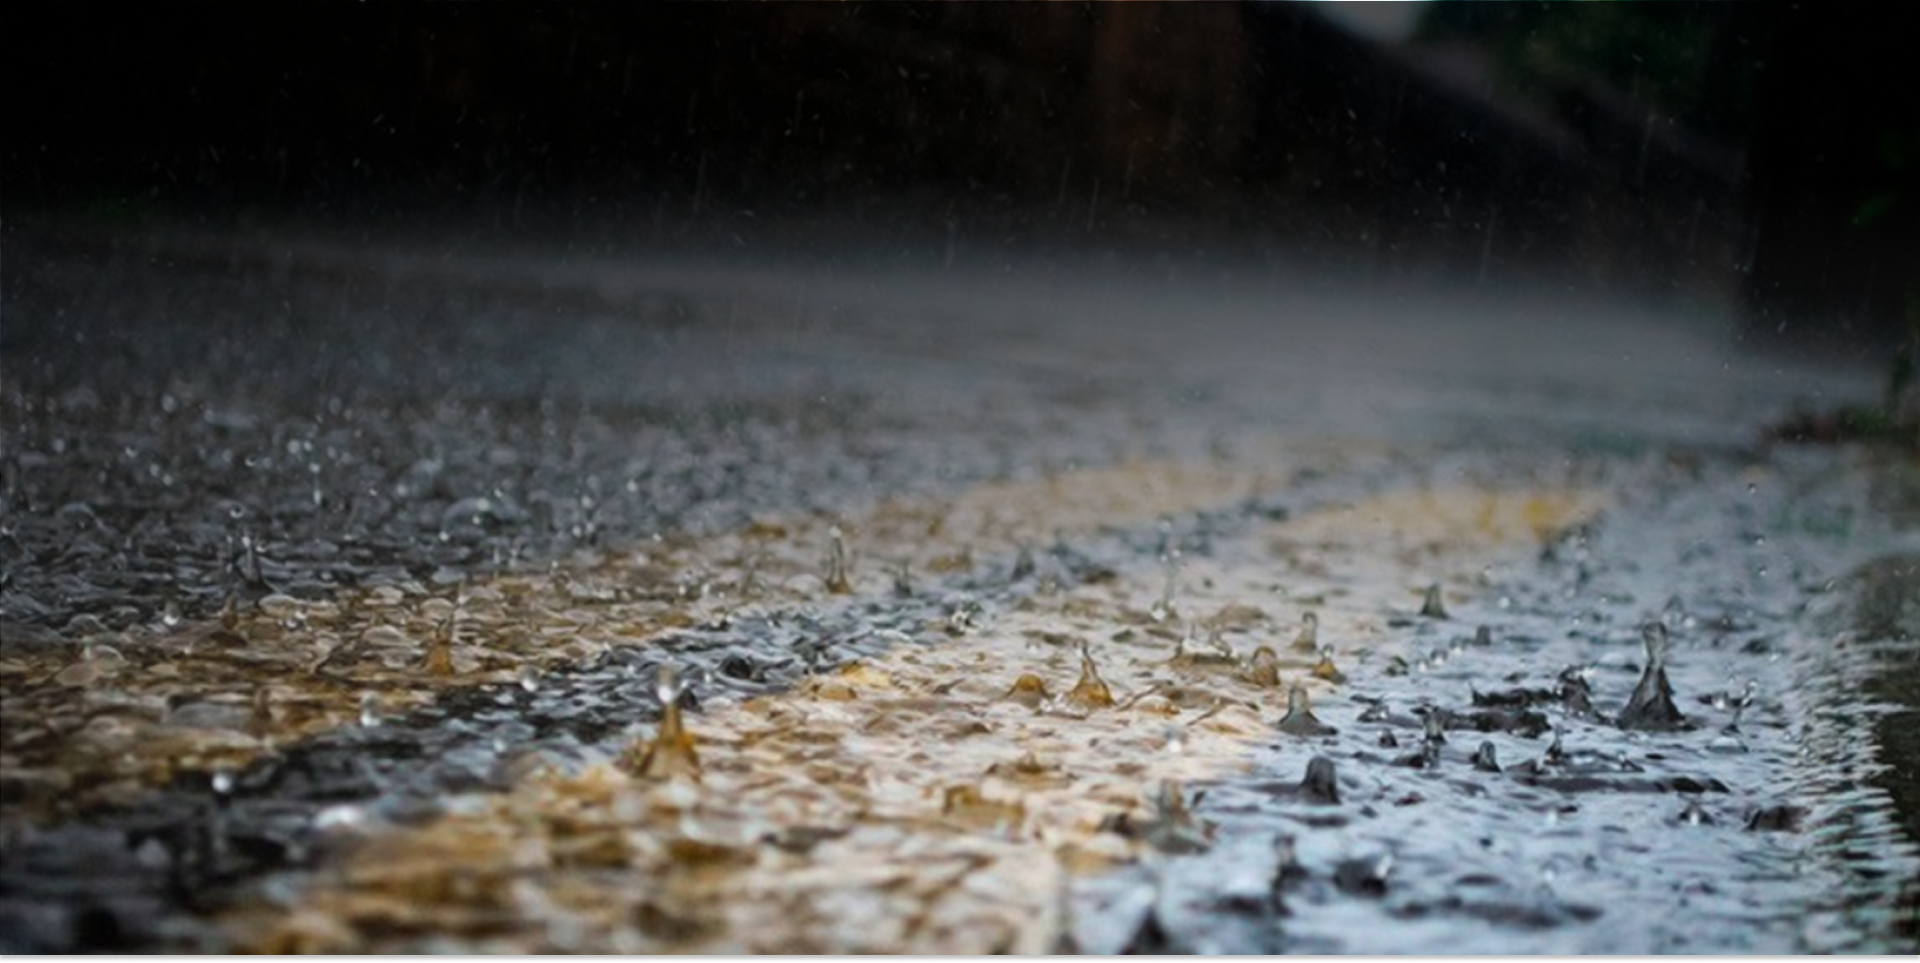
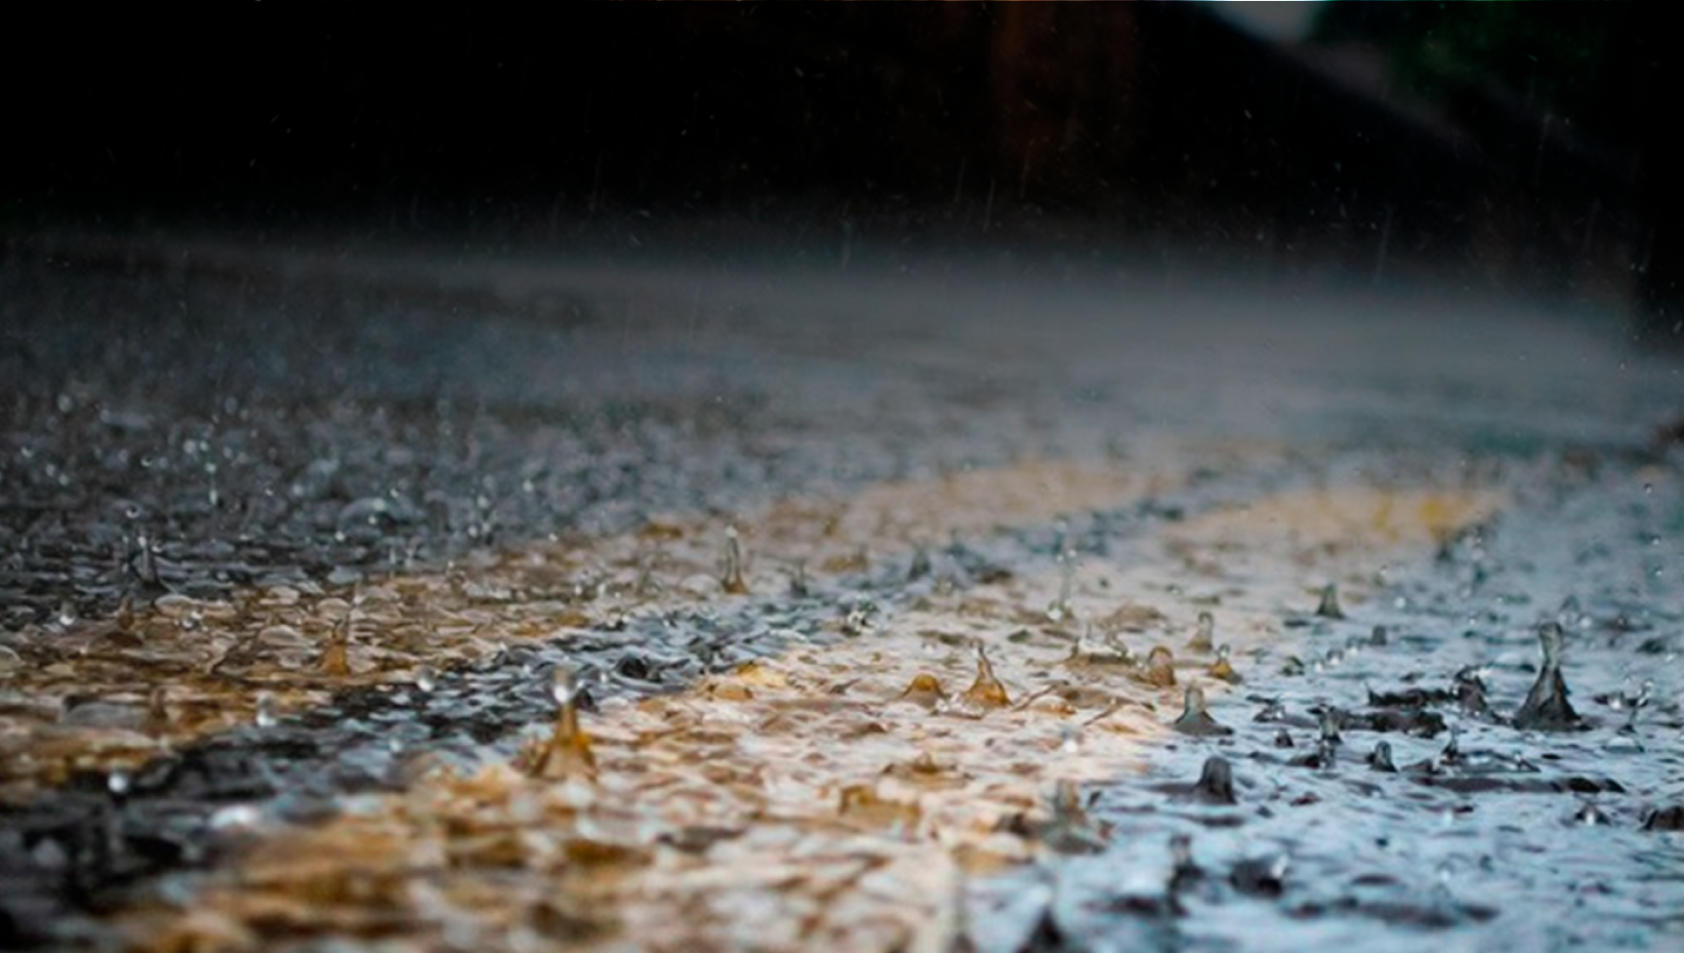
landingPage up

diff --git a/src/components/HomePage/HomePage.jsx b/src/components/HomePage/HomePage.jsx
@@ -6,8 +6,8 @@ export const HomePage = () => {
     return(
         <div id="carouselExampleInterval" className="carousel slide" data-bs-ride="carousel">
             <div className="carousel-inner">
-                <div className="carousel-item active" data-bs-interval="5000">
-                    <img src="/images/mexico-alerta-slider-1.jpg" className="d-block w-100" alt="mexico alerta salvando vidas en colaboracion" />
+                <div className="carousel-item active" data-bs-interval="5000" >
+                    <img src="/images/mexico-alerta-slider-1.jpg" className='d-block backImg' alt="mexico alerta salvando vidas en colaboracion" />
                     <div className="sliderImgText">
                         <h2>Hola, esto es</h2>
                         <img src="/logoPNG.svg" alt="" />
@@ -15,7 +15,7 @@ export const HomePage = () => {
                     </div>
                 </div>
                 <div className="carousel-item" data-bs-interval="5000">
-                    <img src="/images/sismo-mexico-alerta-slider-1.jpg" className="d-block w-100" alt="sismo alerta mexico proteccion salvando vidas" />
+                    <img src="/images/sismo-mexico-alerta-slider-1.jpg" className='d-block backImg' alt="sismo alerta mexico proteccion salvando vidas" />
                     <div className="sliderImgText">
                         <h2>Hola, esto es</h2>
                         <img src="/logoPNG.svg" alt="" />
@@ -23,7 +23,7 @@ export const HomePage = () => {
                     </div>
                 </div>
                 <div className="carousel-item" data-bs-interval="5000">
-                    <img src="/images/lluvia-mexico-alerta.png" className="d-block w-100" alt="lluvia proteccion salvando vidas" />
+                    <img src="/images/lluvia-mexico-alerta.png" className='d-block backImg' alt="lluvia proteccion salvando vidas" />
                     <div className="sliderImgText">
                         <h2>Hola, esto es</h2>
                         <img src="/logoPNG.svg" alt="" />
@@ -31,15 +31,15 @@ export const HomePage = () => {
                     </div>
                 </div>
                 <div className="carousel-item" data-bs-interval="5000">
-                    <img src="/images/nubes-mexico-alerta.png" className="d-block w-100" alt="nubes mexico alerta" />
+                    <img src="/images/nubes-mexico-alerta.png" className='d-block backImg' alt="nubes mexico alerta" />
                     <div className="sliderImgText">
                         <h2>Hola, esto es</h2>
-                        <img src="/logoPNG.svg" alt="" />
+                        <img src="/logoPNG.svg" className='logoCarousel' alt="" />
                         <p>Salvando vidas con coordinación <br /> en tiempo de desastre.</p>
                     </div>
                 </div>
                 <div className="carousel-item" data-bs-interval="5000">
-                    <img src="/images/mapa-mexico-alerta.png" className="d-block w-100" alt="mapa mexico proteccion salvando vidas" />
+                    <img src="/images/mapa-mexico-alerta.png" className='d-block backImg' alt="mapa mexico proteccion salvando vidas" />
                     <div className="sliderImgText">
                         <h2>Hola, esto es</h2>
                         <img src="/logoPNG.svg" alt="" />

diff --git a/src/components/HomePage/homePage.sass b/src/components/HomePage/homePage.sass
@@ -1,24 +1,32 @@
 div
     div.carousel-inner
+        aspect-ratio: 16 / 9
         div.carousel-item
+            img
+                width: 100%
+                height: 98vh
             div.sliderImgText
                 display: flex
                 flex-direction: row
+                align-items: center
+                justify-content: center
+                height: 50%
                 position: absolute
-                top: 20%
-                left:10%
+                top: 10%
                 color: white
                 text-align: center
-                max-width: 80%
+
                 img
-                    width: 20%
+                    width: 18%
                 p
-                    font-size: 1.5rem
-                    font-weight: bold
+                    font-size: 1.8rem
+                    
                     margin-top: 9rem
-                    margin-left: 4rem 
+                    margin-left: 2rem 
                     text-align: justify
                     padding: 0
                 h2
-                    font-size: 1.5rem
-                    margin-right: 1rem
+                    font-weight: bold
+                    font-size: 2rem
+                    margin-right: 2rem
+                    margin-bottom: 10rem
